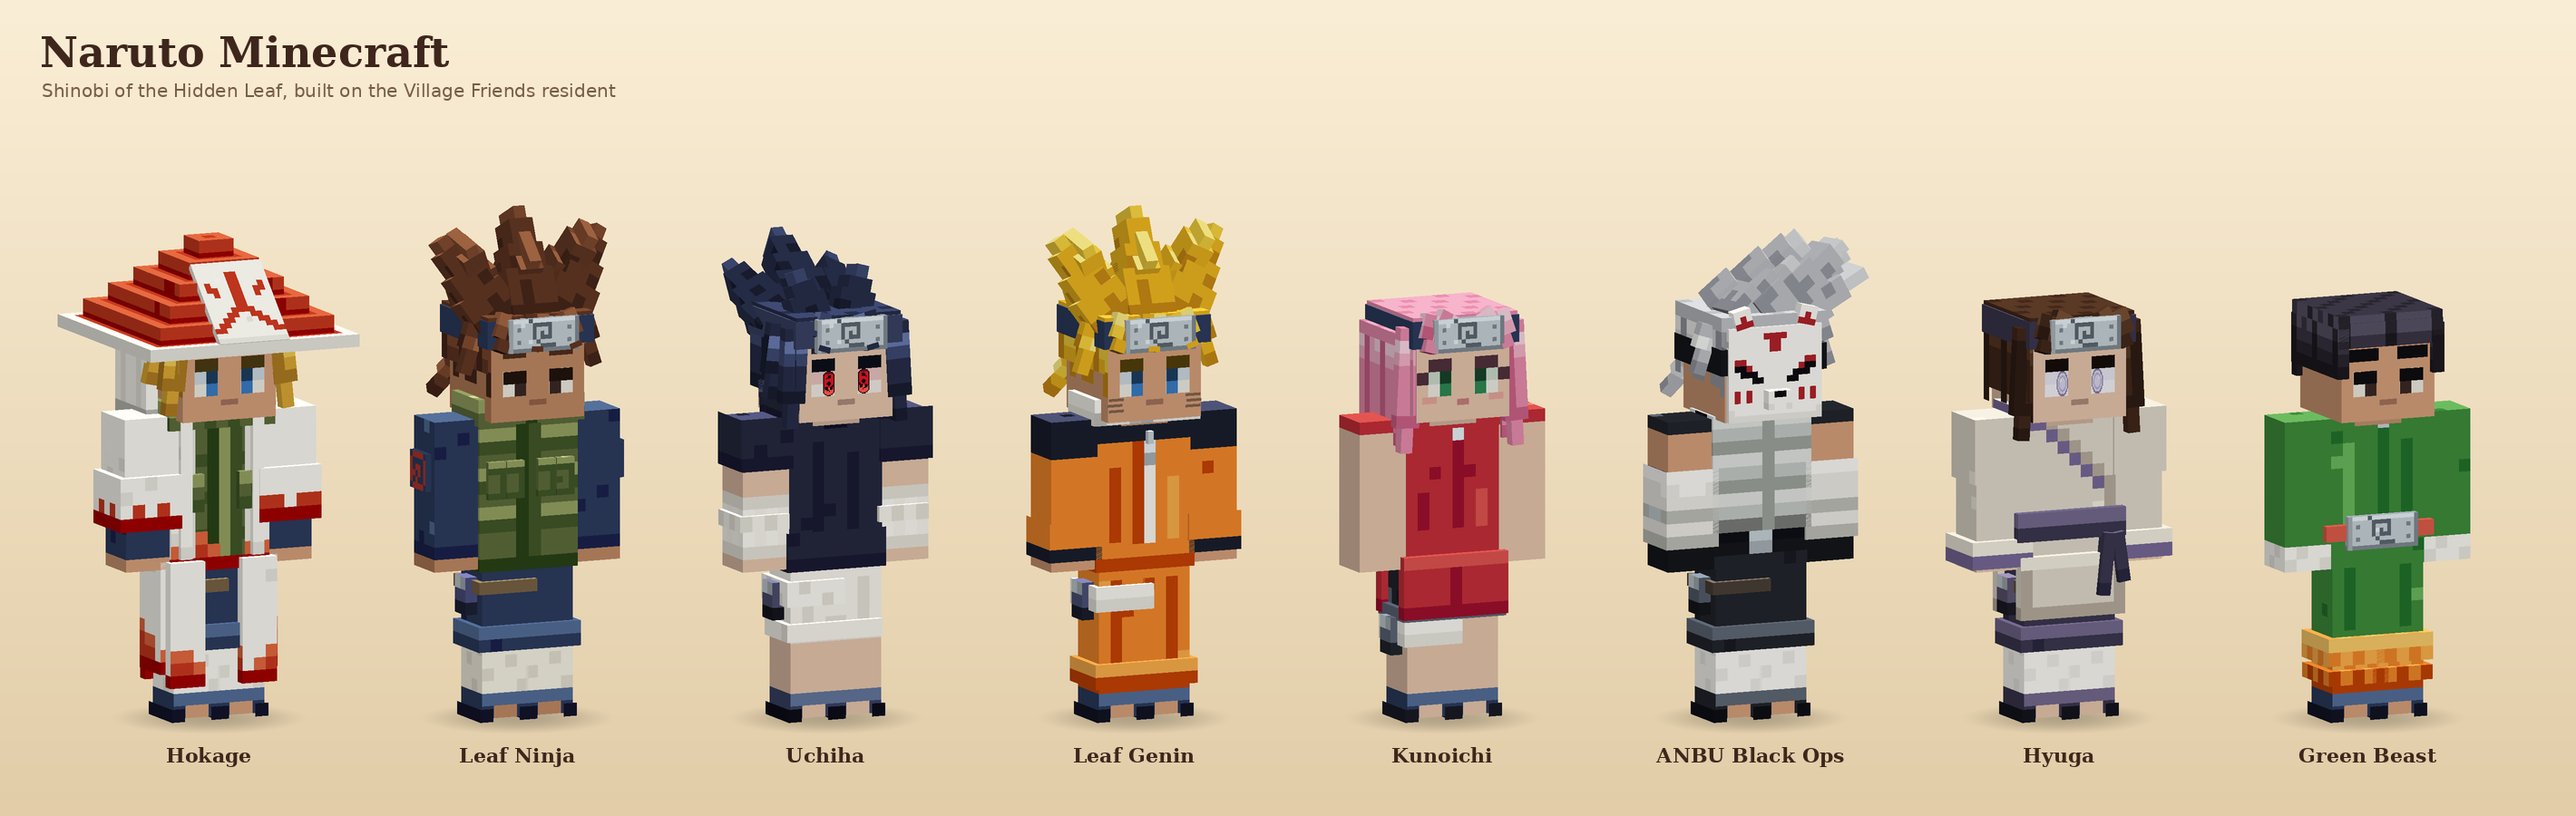
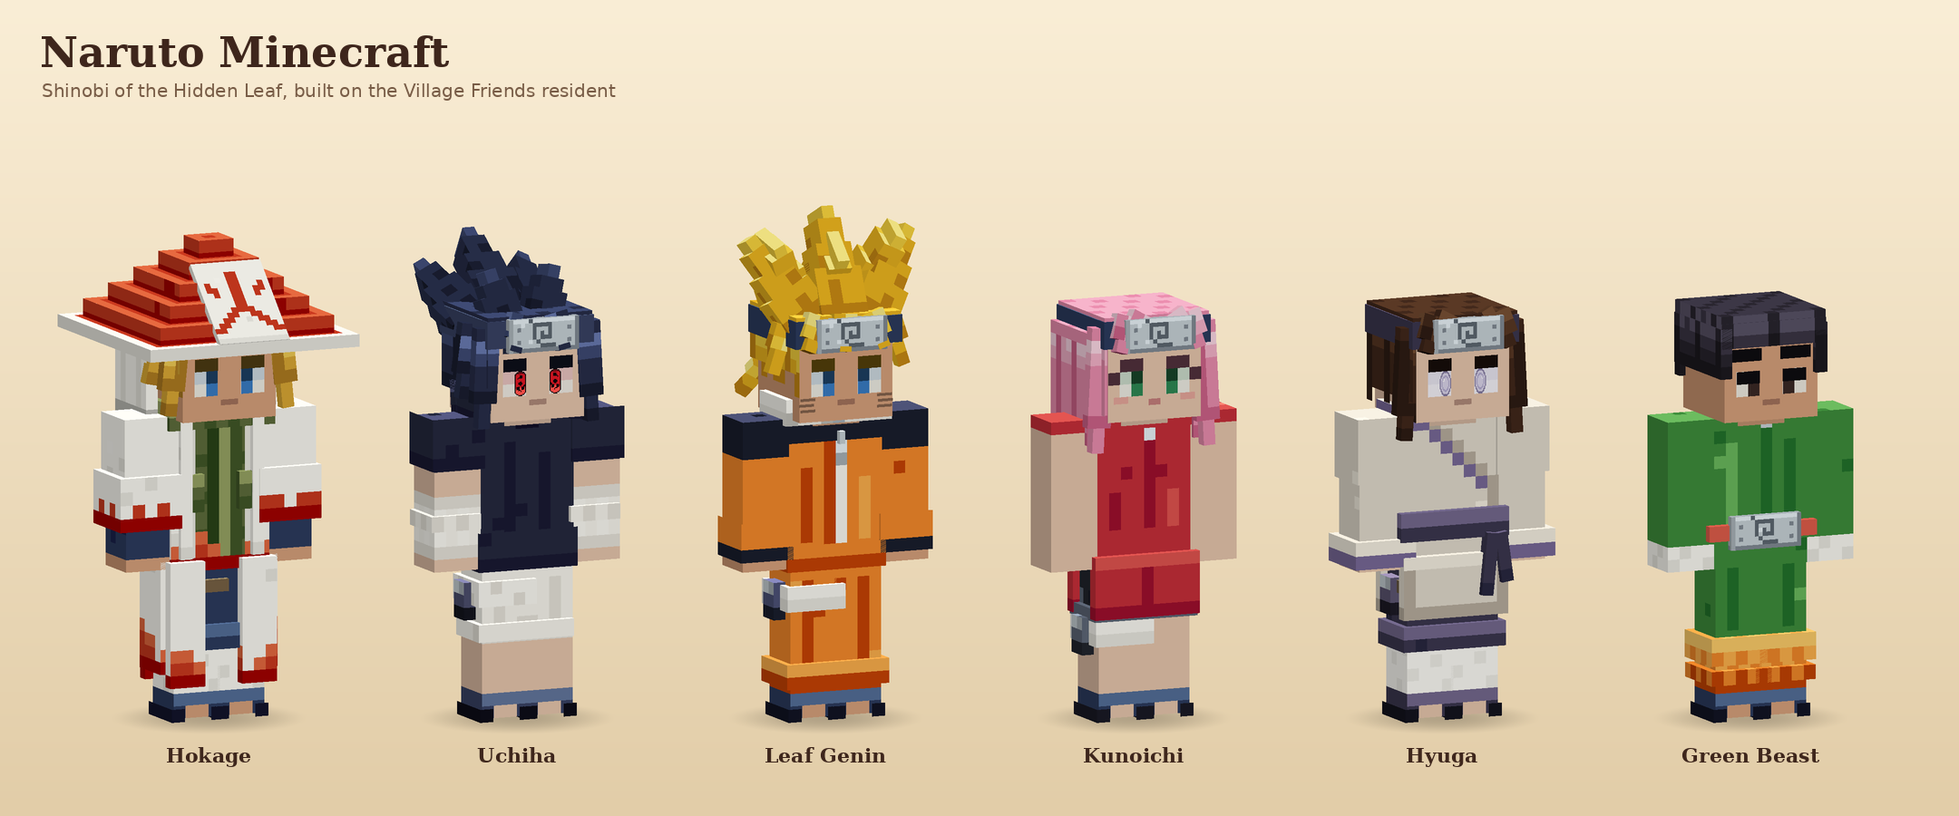
README: the rank ladder, per-rank line-ups and the shared shinobi kit; refresh renders

diff --git a/README.md b/README.md
@@ -2,28 +2,72 @@
 
 A Naruto-themed Minecraft mod built on the resident model from Village Friends: the player mesh with its overlay layers, the six skin complexions, the Living Eyes face and the palette-locked wardrobe of textured 3D pieces. This first stage is only about the look of the characters. It has no Java, entities or gameplay yet.
 
-![The line-up](docs/renders/lineup.png)
+## The village
 
-## Characters
+The mod's goal is a living Hidden Leaf: you start as a ninja and work your way up to Hokage. Every character is dressed for one rank on that ladder, and the NPCs of each rank share a look so you can read someone's rank at a glance:
 
-| Character | Eyes | Hair | Headwear | Top | Bottom | Palette |
+**Academy → Genin → Chunin → Jonin → ANBU → Hokage**
+
+Each character JSON sets `rank`. The role outfits are the village's general population. A few looks that echo characters from the show are marked `"signature": true` and kept apart in `lineup.png`.
+
+### Genin: the village's young ninja
+
+![Genin](docs/renders/lineup_genin.png)
+
+| Character | Hair | Headwear | Top | Bottom | Palette |
+|---|---|---|---|---|---|
+| Genin Scout | Swept Spikes (ginger) | Forehead Protector | Scout Hoodie | Cargo Shorts | Genin Scout |
+| Genin Brawler | Leaf Spikes (auburn), bold brows | Forehead Protector | Brawler Vest (chain mesh, sash, bandaged fists) | Shinobi Trousers | Brawler |
+| Genin Kunoichi | High Ponytail (honey), swings | Forehead Protector | Kunoichi Tunic | Mesh Leggings | Kunoichi Violet |
+| Genin Tracker | Short Crop (chestnut) | Forehead Protector | Tracker Zip Vest (satchel) | Genin Track Pants | Genin Tracker |
+| Genin Scroll Bearer | Uchiha Spikes (honey) | Forehead Protector | Scroll Bearer (wrap top, obi, summoning scroll) | Shinobi Trousers | Scroll Bearer |
+
+### Jonin: the elite of the Hidden Leaf
+
+![Jonin](docs/renders/lineup_jonin.png)
+
+| Character | Hair | Headwear | Top | Bottom | Palette |
+|---|---|---|---|---|---|
+| Leaf Jonin | Leaf Spikes (chestnut) | Forehead Protector | Konoha Flak Vest | Shinobi Trousers | Konoha Jonin |
+| Jonin Sentinel | Short Crop (espresso) | Masked Protector (cloth face mask) | Sentinel Vest (plated gloves, tanto) | Shinobi Trousers | Jonin Sentinel |
+| Field Jonin | Short Crop (raven) | Bandana Protector | Field Vest (rolled sleeves, bandages) | Shinobi Trousers | Jonin Field |
+| Kunoichi Jonin | Low Ponytail (raven) | Forehead Protector | Kunoichi Jonin (sash, wrap skirt) | Mesh Leggings | Jonin Kunoichi |
+| Jonin Commander | Kage Spikes (silver) | Forehead Protector | Commander Coat (leaf crest on the back) | Shinobi Trousers | Jonin Commander |
+
+### ANBU Black Ops: the Hokage's masked guard
+
+![ANBU](docs/renders/lineup_anbu.png)
+
+| Character | Hair | Headwear | Top | Bottom | Palette |
+|---|---|---|---|---|---|
+| ANBU Fox | Swept Spikes (espresso) | ANBU Fox Mask | ANBU Armor | Shinobi Trousers | ANBU |
+| ANBU Cat | Long Straight (raven) | Cat Mask and Hood | ANBU Cloak | Shinobi Trousers | ANBU Shadow |
+| ANBU Wolf Captain | Low Ponytail (raven) | Wolf Mask | ANBU Captain (pauldrons, scarf, ninjato) | Shinobi Trousers | ANBU Wolf |
+| ANBU Hawk Tracker | Long Straight (violet) | Hawk Mask | ANBU Tracker (kunai bandolier) | ANBU Greaves | ANBU Hawk |
+| Root Agent | Short Crop (raven) | Root Mask | Root Tunic (ink scroll, tanto) | ANBU Greaves | ANBU Root |
+
+### Kage and signature looks
+
+![Signature line-up](docs/renders/lineup.png)
+
+| Character | Rank | Eyes | Hair | Headwear | Top | Bottom |
 |---|---|---|---|---|---|---|
-| Hokage | Starlit eyes, sky blue | Kage Spikes (gold) | Kage Hat | Hokage Haori | Shinobi Trousers | Hokage |
-| Leaf Ninja | Soft Glint eyes, dark | Leaf Spikes (chestnut) | Forehead Protector | Konoha Flak Vest | Shinobi Trousers | Konoha Jonin |
-| Uchiha | Starlit eyes, Sharingan (glows) | Uchiha Spikes (blue-black) | Forehead Protector | Uchiha High Collar | Uchiha Shorts | Uchiha |
-| Leaf Genin | Starlit eyes, sky blue, whisker marks | Leaf Spikes (sun blond) | Forehead Protector | Genin Track Jacket | Genin Track Pants | Leaf Genin |
-| Kunoichi | Starlit eyes, jade, feminine | Long Straight (blossom pink) | Forehead Protector | Kunoichi Qipao | Kunoichi Shorts | Kunoichi |
-| ANBU Black Ops | Hidden by the mask | Swept Spikes (snow) | ANBU Mask | ANBU Armor | Shinobi Trousers | ANBU |
-| Hyuga | Starlit eyes, Byakugan | Low Ponytail (espresso) | Forehead Protector | Hyuga Robe | Shinobi Trousers | Hyuga |
-| Green Beast | Soft Glint eyes, dark, bold brows | Bowl Cut (raven) | none | Green Jumpsuit | Green Leggings | Green Beast |
+| Hokage | kage | Starlit, sky blue | Kage Spikes (gold) | Kage Hat | Hokage Haori | Shinobi Trousers |
+| Uchiha | genin | Starlit, Sharingan (glows) | Uchiha Spikes (blue-black) | Forehead Protector | Uchiha High Collar | Uchiha Shorts |
+| Leaf Genin | genin | Starlit, sky blue, whisker marks | Leaf Spikes (sun blond) | Forehead Protector | Genin Track Jacket | Genin Track Pants |
+| Kunoichi | genin | Starlit, jade, feminine | Long Straight (blossom pink) | Forehead Protector | Kunoichi Qipao | Kunoichi Shorts |
+| Hyuga | genin | Starlit, Byakugan | Low Ponytail (espresso) | Forehead Protector | Hyuga Robe | Shinobi Trousers |
+| Green Beast | genin | Soft Glint, dark, bold brows | Bowl Cut (raven) | none | Green Jumpsuit | Green Leggings |
 
-Each character has a sheet in `docs/renders/`, with front, side, back, mid-stride and close-up views.
+Each character has a sheet in `docs/renders/`, with front, side, back, mid-stride and close-up views. Academy and Chunin outfits are still to come.
 
 ## How the pieces work
 
 The Village Friends wardrobe engine is kept in `tools/wardrobe/` and extended:
 
 - **Kinds:** besides hair, tops and bottoms there are **faces** (painted on the head, plus optional decal pieces) and **headwear** (hats and headbands over the hair). A headwear module can hide hair pieces by id prefix (`hides_hair`), so the kage hat hides the crown spikes but keeps the bangs. Headwear with `covers_face` (the ANBU mask) hides the whole Living Eyes face, and a character may wear no headwear at all.
+- **Shared kit:** `kit_shinobi.py` holds the gear every rank reuses: `forehead_protector(g, band, ring=)` (the band, the steel plate, the knot and two swaying tails; `ring=False` drops the band for headwear that brings its own, like the bandana), `flak_vest`, `mesh` (a dark chain-mesh net with the skin showing through) and `tanto`, on top of the Village Friends `kit.py` helpers (`belt`, `collar`, `roll`). `masks.py` builds every ANBU mask from the same parts: a 16 x 15 porcelain `plate` at double resolution, a `strap`, and raised `ears`, `bump` (snouts, brows) and `beak` pieces.
+- **Cloth masks:** headwear with `covers_mouth` (the Sentinel's face mask) keeps the eyes and brows but hides the lips, and may place pieces over the lower face. Validation still rejects any headwear piece that would cover the eyes.
 - **Living Eyes:** the face is the Village Friends one (`FaceDetails` and `ResidentModel`), ported in `tools/wardrobe/living_eyes.py`. Lashes, the tinted upper white, pupil, glint, iris, brows, mouth and neck shade are thin planes in front of the face, finer than a skin pixel, so they can blink and glance in game. Each character picks `eye_style` (`starlit`, three rows tall, or `soft_glint`, two rows, lower) and `feminine` (adds the lash wing, arched brows, rosy lips and blush). Brow and lash colors come from the hair, lid, lip and blush colors from the complexion. Two additions to Village Friends: `"brows": "bold"` draws a thick, full-pixel brow, and `"marks": ["whiskers"]` adds three thin cheek marks on each side.
 - **Eye colors:** the `E` key role resolves through `eye_colors.json` (Dark, Sky Blue, Jade, Sharingan, Byakugan), the way `H` resolves through hair colors. The face piece paints only the eye row the planes sample. An eye color with a `pattern` (rows of shades 0-4, twice as tall as wide) replaces the pupil and iris with one high-resolution decal, and `glow` draws it fullbright: that is the Sharingan, with its pupil and three tomoe, and the pupil-less pale Byakugan.
 - **Decals:** small pieces drawn at 2x, 3x or 6x resolution through the piece `scale`: the 火 panel and back kanji, the swirls, the leaf plate, the Uchiha fan, the Kunoichi's white circle and the ANBU mask.
@@ -33,7 +77,7 @@ The Village Friends wardrobe engine is kept in `tools/wardrobe/` and extended:
 ```text
 python tools/wardrobe/wardrobe.py            # compile every piece to src/main/resources/assets/narutominecraft/wardrobe/
 python tools/wardrobe/wardrobe.py --check    # validate and confirm the outputs are current
-python tools/wardrobe/render.py --all        # render every character sheet and the line-up
+python tools/wardrobe/render.py --all        # render every character sheet, the signature line-up and one line-up per rank
 python tools/wardrobe/render.py uchiha       # one sheet
 ```
 
